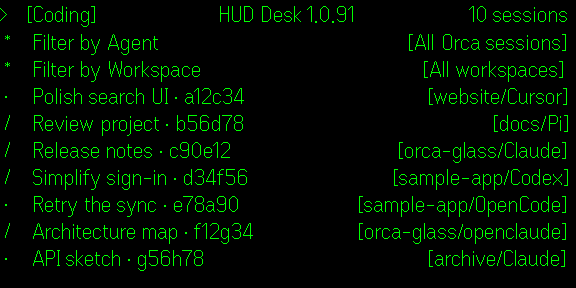
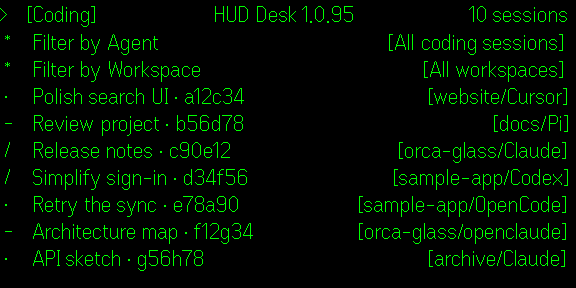
Store and README: chart on the G2 and its AI Readout (invented chart); Coding list with read marks.
Agent: Claude Opus 5.5
Claude-Session: https://claude.ai/code/session_01TgtVS6itCsompeVC4U5k4N

Changed region(s): [[0.6875, 0.125, 1.0, 0.1875], [0.375, 0.0, 0.625, 0.0938]]

diff --git a/store/gallery.html b/store/gallery.html
@@ -38,6 +38,8 @@ figcaption{margin-top:12px;color:#bcc5be}strong{display:block;color:#f3f5f3;font
 <figure><a href="screenshots/16-keys.png"><img src="screenshots/16-keys.png" alt="Keyboard keys"></a><figcaption><strong>16 · Keyboard keys</strong>The ? page: Gmail and IDE keys. Rendered by the app's keys-page code, because the simulator has no keyboard. <a href="screenshots/16-keys.png">Upload PNG</a> · <a href="screenshots/native/16-keys.png">Transparent original</a></figcaption></figure>
 <figure><a href="screenshots/17-backgrounds.png"><img src="screenshots/17-backgrounds.png" alt="Compare backgrounds"></a><figcaption><strong>17 · Compare backgrounds</strong>Every background for your turns; choose in place. <a href="screenshots/17-backgrounds.png">Upload PNG</a> · <a href="screenshots/native/17-backgrounds.png">Transparent original</a></figcaption></figure>
 <figure><a href="screenshots/18-compare-fonts.png"><img src="screenshots/18-compare-fonts.png" alt="Compare fonts"></a><figcaption><strong>18 · Compare fonts</strong>Native text and the pixel fonts, large to small; choose in place. <a href="screenshots/18-compare-fonts.png">Upload PNG</a> · <a href="screenshots/native/18-compare-fonts.png">Transparent original</a></figcaption></figure>
+<figure><a href="screenshots/19-chart-picture.png"><img src="screenshots/19-chart-picture.png" alt="Chart on the G2"></a><figcaption><strong>19 · Chart on the G2</strong>A news-style line chart (invented data) as Original Picture: flat tones for graphics. <a href="screenshots/19-chart-picture.png">Upload PNG</a> · <a href="screenshots/native/19-chart-picture.png">Transparent original</a></figcaption></figure>
+<figure><a href="screenshots/20-chart-readout.png"><img src="screenshots/20-chart-readout.png" alt="Chart: AI Readout"></a><figcaption><strong>20 · Chart: AI Readout</strong>The local vision model's reading of the same chart: title, series, every close, the offer price line. <a href="screenshots/20-chart-readout.png">Upload PNG</a> · <a href="screenshots/native/20-chart-readout.png">Transparent original</a></figcaption></figure>
 <figure><a href="screenshots/phone-companion.png"><img src="screenshots/phone-companion.png" alt="Phone companion" style="max-width:260px"></a><figcaption><strong>Phone companion (not a glasses capture; older)</strong>Filters and Usage on the phone, demo data. <a href="screenshots/phone-companion.png">PNG</a></figcaption></figure>
 </main>
 <section class="profile"><h2>Profile description and attribution</h2><!-- profile:start --><pre>Read your agent sessions, email and chats on G2. Talk, type on a Bluetooth keyboard, open pictures.

diff --git a/scripts/make-store-chart.py b/scripts/make-store-chart.py
@@ -1,0 +1,88 @@
+"""Draw the fictional news-style line chart used by the store preview (scripts/store-preview.mjs).
+
+Eugene, 2026-11-27: show a chart rendered on the G2 and its AI Readout in the README and store
+screenshots, without republishing a newsletter's copyrighted chart. This chart copies only the
+genre (title, legend, right-side price axis, dashed reference line, a callout, source line); the
+company, prices and wording are invented.
+
+Output: .local/store-assets/markets-chart.png (gitignored, like the store fractal). The store
+preview renders it with the bridge's own picture code and asks the local vision model once for
+the AI Readout (cached next to it).
+
+Run: python scripts/make-store-chart.py
+"""
+from __future__ import annotations
+
+import logging
+from pathlib import Path
+
+import matplotlib
+
+matplotlib.use("Agg")  # file output only; no display backend on a headless run
+import matplotlib.pyplot as plt  # noqa: E402  (backend must be chosen before pyplot loads)
+from matplotlib.lines import Line2D  # noqa: E402
+
+LOG = logging.getLogger("make-store-chart")
+ROOT = Path(__file__).resolve().parent.parent
+OUTPUT = ROOT / ".local" / "store-assets" / "markets-chart.png"
+
+# Fictional closing prices for a fictional listing, first eight trading days (weekend gap after
+# day 4, marked by the dashed vertical rule like a real trading calendar).
+DAYS = ["Mar. 3", "4", "5", "6", "10", "11", "12", "Mar. 13"]
+CLOSES = [41.2, 46.8, 44.1, 42.9, 38.6, 39.3, 42.0, 44.7]
+OFFER_PRICE = 40.0
+LOW_INDEX = 4  # the close below the offer price that the callout points at
+
+
+def draw(path: Path) -> None:
+    if len(DAYS) != len(CLOSES):
+        raise ValueError("DAYS and CLOSES must have the same length")
+    plt.rcParams.update({"font.family": "Arial", "font.size": 22})
+    # 20 x 17 inches at 100 dpi = 2000 x 1700 px, the size of a typical newsletter chart image.
+    fig = plt.figure(figsize=(20, 17), dpi=100, facecolor="white")
+    ax = fig.add_axes((0.03, 0.17, 0.89, 0.66))
+
+    x = list(range(len(CLOSES)))
+    ax.plot(x, CLOSES, color="black", linewidth=5, solid_joinstyle="miter", zorder=3)
+    ax.axhline(OFFER_PRICE, color="black", linewidth=3.5, linestyle=(0, (5, 4)), zorder=2)
+    ax.axvline(3.5, color="#bdbdbd", linewidth=2, linestyle=(0, (4, 4)), zorder=1)
+    ax.plot([LOW_INDEX], [CLOSES[LOW_INDEX]], "o", color="black", markersize=14, zorder=4)
+
+    # Right-side price axis with light horizontal gridlines only, as news charts draw them.
+    ax.set_ylim(36, 49)
+    ticks = list(range(36, 50, 2))
+    ax.set_yticks(ticks)
+    ax.set_yticklabels([f"${t}" if t == ticks[-1] else str(t) for t in ticks], fontsize=36)
+    ax.yaxis.tick_right()
+    ax.grid(axis="y", color="#c8c8c8", linewidth=2)
+    ax.set_xlim(-0.3, len(CLOSES) - 0.7)
+    ax.set_xticks(x)
+    ax.set_xticklabels(DAYS, fontsize=36)
+    ax.tick_params(axis="both", length=12, width=2, colors="black", pad=12)
+    ax.tick_params(axis="y", length=0)
+    for side in ("top", "left", "right"):
+        ax.spines[side].set_visible(False)
+    ax.spines["bottom"].set_color("#9e9e9e")
+    ax.spines["bottom"].set_linewidth(2)
+
+    ax.text(0.05, OFFER_PRICE + 0.35, "Offer price", fontsize=36, va="bottom")
+    ax.annotate("Closes below\noffer price", xy=(LOW_INDEX, CLOSES[LOW_INDEX] - 0.1),
+                xytext=(LOW_INDEX - 0.15, CLOSES[LOW_INDEX] - 1.9), fontsize=36, ha="right", va="center",
+                arrowprops={"arrowstyle": "-", "color": "black", "linewidth": 2,
+                            "connectionstyle": "angle,angleA=0,angleB=90,rad=0"})
+
+    fig.text(0.0, 0.955, "Nimbus Robotics Swings Around Its Offer Price", fontsize=50, fontweight="bold", va="top")
+    fig.legend(handles=[Line2D([], [], color="black", linewidth=5)], labels=["Nimbus Robotics share price"],
+               loc="upper left", bbox_to_anchor=(0.0, 0.905), frameon=False, fontsize=36, handlelength=1.2)
+    fig.text(0.42, 0.105, "Mar. 2027", fontsize=34, color="#5f5f5f")
+    fig.text(0.0, 0.05, "Source: sample data (fictional)", fontsize=34)
+
+    path.parent.mkdir(parents=True, exist_ok=True)
+    fig.savefig(path, facecolor="white")
+    plt.close(fig)
+    LOG.info("wrote %s", path)
+
+
+if __name__ == "__main__":
+    logging.basicConfig(level=logging.INFO, format="%(levelname)s %(message)s")
+    draw(OUTPUT)

diff --git a/README.md b/README.md
@@ -58,7 +58,7 @@ still need verification. See [implementation](docs/hermes-bridge.md).
 
 ## Screenshots
 
-Native 576 × 288 simulator captures of beta 1.0.91 with fictional sample data (see the [gallery](store/gallery.html)). The picture is a Mandelbrot set drawn by ffmpeg; the keys page is rendered by the app's own code.
+Native 576 × 288 simulator captures of beta 1.0.91 (Coding list and charts: 1.0.95) with fictional sample data. The chart is invented data drawn by `scripts/make-store-chart.py`; its AI Readout is the local vision model's real answer (see the [gallery](store/gallery.html)). The picture is a Mandelbrot set drawn by ffmpeg; the keys page is rendered by the app's own code.
 
 | **Reader: Scientifica 5x11 on Tube** | **Architecture map** | **Live coding** |
 | --- | --- | --- |
@@ -69,6 +69,8 @@ Native 576 × 288 simulator captures of beta 1.0.91 with fictional sample data (
 | ![Email](store/screenshots/07-email.png) | ![Email with pictures](store/screenshots/08-email-pictures.png) | ![Original Picture](store/screenshots/09-picture.png) |
 | **Outline** | **Usage bars** | **AI Readout** |
 | ![Outline](store/screenshots/10-outline.png) | ![Usage bars](store/screenshots/11-usage.png) | ![AI Readout](store/screenshots/12-ai-readout.png) |
+| **Chart on the G2** | **Chart: AI Readout** | |
+| ![Chart on the G2](store/screenshots/19-chart-picture.png) | ![Chart: AI Readout](store/screenshots/20-chart-readout.png) | |
 | **Chat** | **Filter by Network** | **Chat translation** |
 | ![Chat](store/screenshots/13-chat.png) | ![Filter by Network](store/screenshots/14-chat-networks.png) | ![Chat translation](store/screenshots/15-chat-translate.png) |
 | **Keyboard keys** | **Compare backgrounds** | **Compare fonts** |

diff --git a/CLAUDE.md b/CLAUDE.md
@@ -58,6 +58,20 @@ do not fall back to pscapital.com.hk because it has an existing logged-in tab.
 
 ## Current work
 
+2026-11-27 Eugene: his 'Anthropic takes the win' Bloomberg newsletter chart renders well on G2 and its
+AI Readout is great; add such renders to the GitHub images, and build a view that puts the AI's
+reading back on the chart in Scientifica ('use worker session'). (1) README images: Eugene chose a
+look-alike chart (Bloomberg's is copyrighted, from his work mail). scripts/make-store-chart.py draws
+a fictional 'Nimbus Robotics' line chart -> .local/store-assets/markets-chart.png; store fixture adds
+a Market Desk newsletter with it; real local AI Readout cached in .local/store-assets/
+markets-chart-readout.txt. New shots store/screenshots/19-chart-picture, 20-chart-readout (+ native),
+04-coding-list recaptured with 1.0.95 '/' and '-' marks; README, gallery, listing updated. Portal
+screenshots NOT changed (1.0.94 in review; portal max 8). (2) Worker chart-labels (claude,
+dispatch ctx_eaabec0ab8af, child worktree C:/Users/eugen/orca/workspaces/orca-glass/chart-labels):
+'AI Labels' view. Test chart: Bloomberg original saved once (with the bridge's fetchPublicImage) to
+.local/chart-test/anthropic-chart.jpg, evaluation only, nothing derived from it may be committed.
+Bridge restart for 1.0.95's bell: asked, no answer yet; not restarted.
+
 2026-11-27 beta 1.0.95 (Eugene: Orca shows a bell for unread sessions and a dot for read; use '/'
 unread and '-' read in Coding, like Email/Chat). app/src/coding-read.ts: Orca rows use Orca's
 agent activity.unread + activity.sortAt (bridge/activity.mjs orcaReadState; chats matched by

diff --git a/store/listing.md b/store/listing.md
@@ -186,6 +186,8 @@ spinner on its L frame, and the GitHub README.
 | `16-keys.png` | Keyboard keys: The ? page: Gmail and IDE keys. Rendered by the app's keys-page code, because the simulator has no keyboard. |
 | `17-backgrounds.png` | Compare backgrounds: Every background for your turns; choose in place. |
 | `18-compare-fonts.png` | Compare fonts: Native text and the pixel fonts, large to small; choose in place. |
+| `19-chart-picture.png` | Chart on the G2: a news-style line chart (invented data, `scripts/make-store-chart.py`) as Original Picture. |
+| `20-chart-readout.png` | Chart: AI Readout: the local vision model's real reading of that chart (cached in `.local/store-assets/markets-chart-readout.txt`). |
 
 - Picture: `.local/store-assets/fractal.png` (gitignored, ffmpeg mandelbrot source); the AI Readout
   text is the local model's answer, cached in `.local/store-assets/fractal-readout.txt`.

diff --git a/TODOS.md b/TODOS.md
@@ -8,6 +8,14 @@ Completed/superseded release notes: [history](docs/todo-history.md).
 
 ## Open work
 
+- [ ] **Intermittent test (2026-11-27):** `tests/local-agents.test.mjs` fails about one full
+  `npm test` run in three with a file-level 'test failed' (no subtest named); it passes 6/6 when run
+  alone. Likely an async leak or timing under parallel load. Not investigated yet.
+
+- [ ] **Email row overlap (2026-11-27):** in the store fixture, 'Field Notes Daily - Morning briefing:
+  picture of the week' runs into its time '23:05' with no gap (simulator, beta 1.0.95). The title
+  fit should leave the label gap. Not investigated yet.
+
 - [ ] **Launch posts (2026-11-27):** drafts for r/EvenRealities, Even Discord, r/ClaudeAI,
   r/beeper, Show HN, X, a note to Even and a 45 s video script in
   [store/launch-posts.md](store/launch-posts.md). Gate before posting: Even approves 1.0.94;
